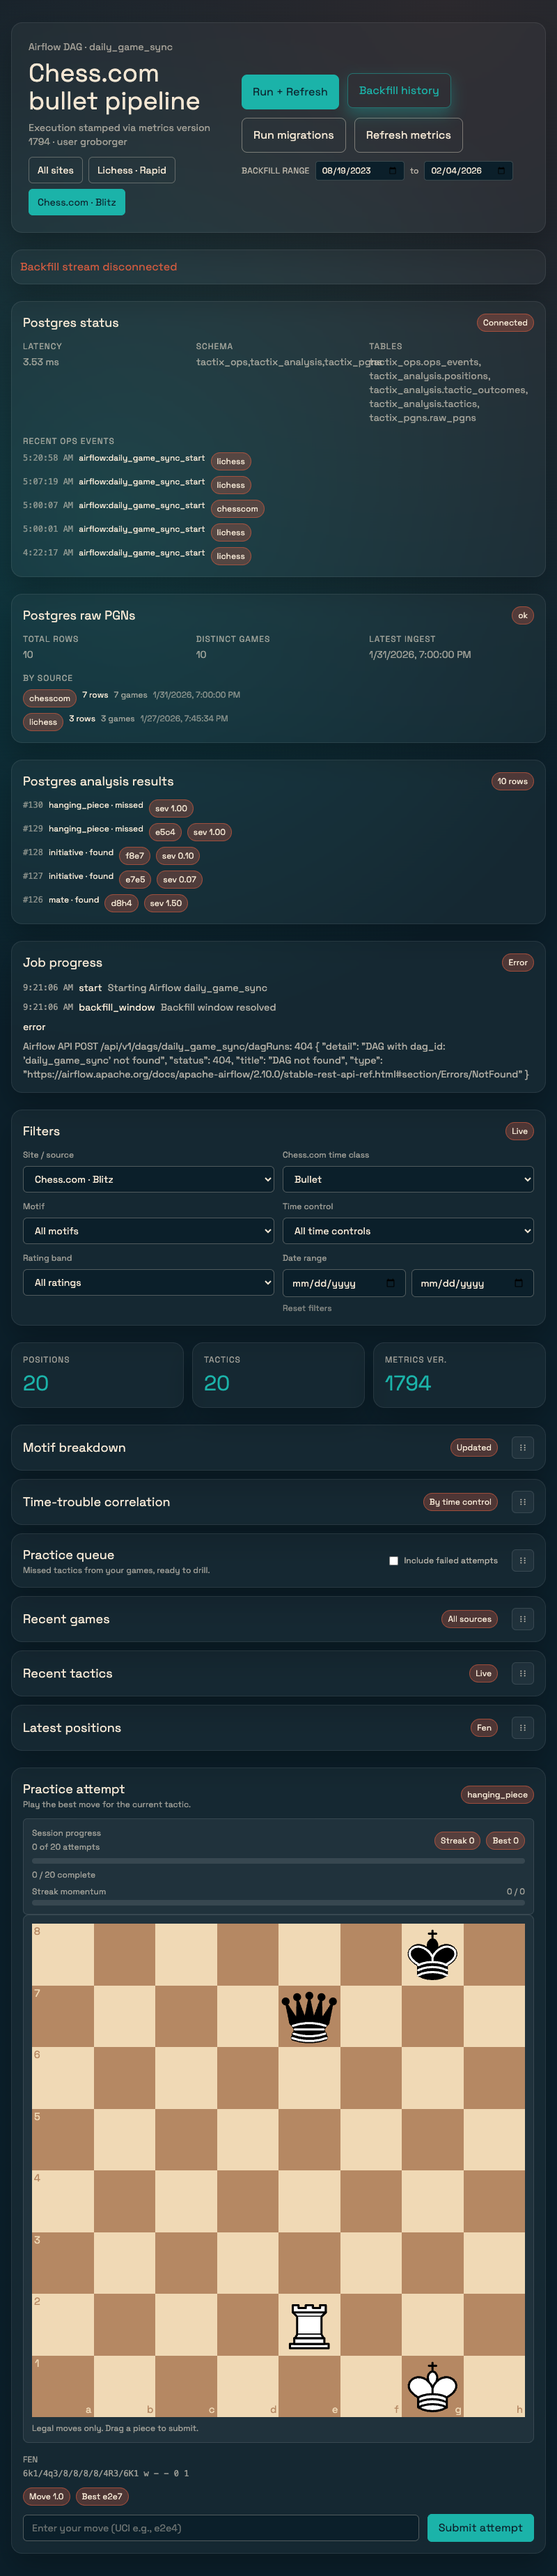
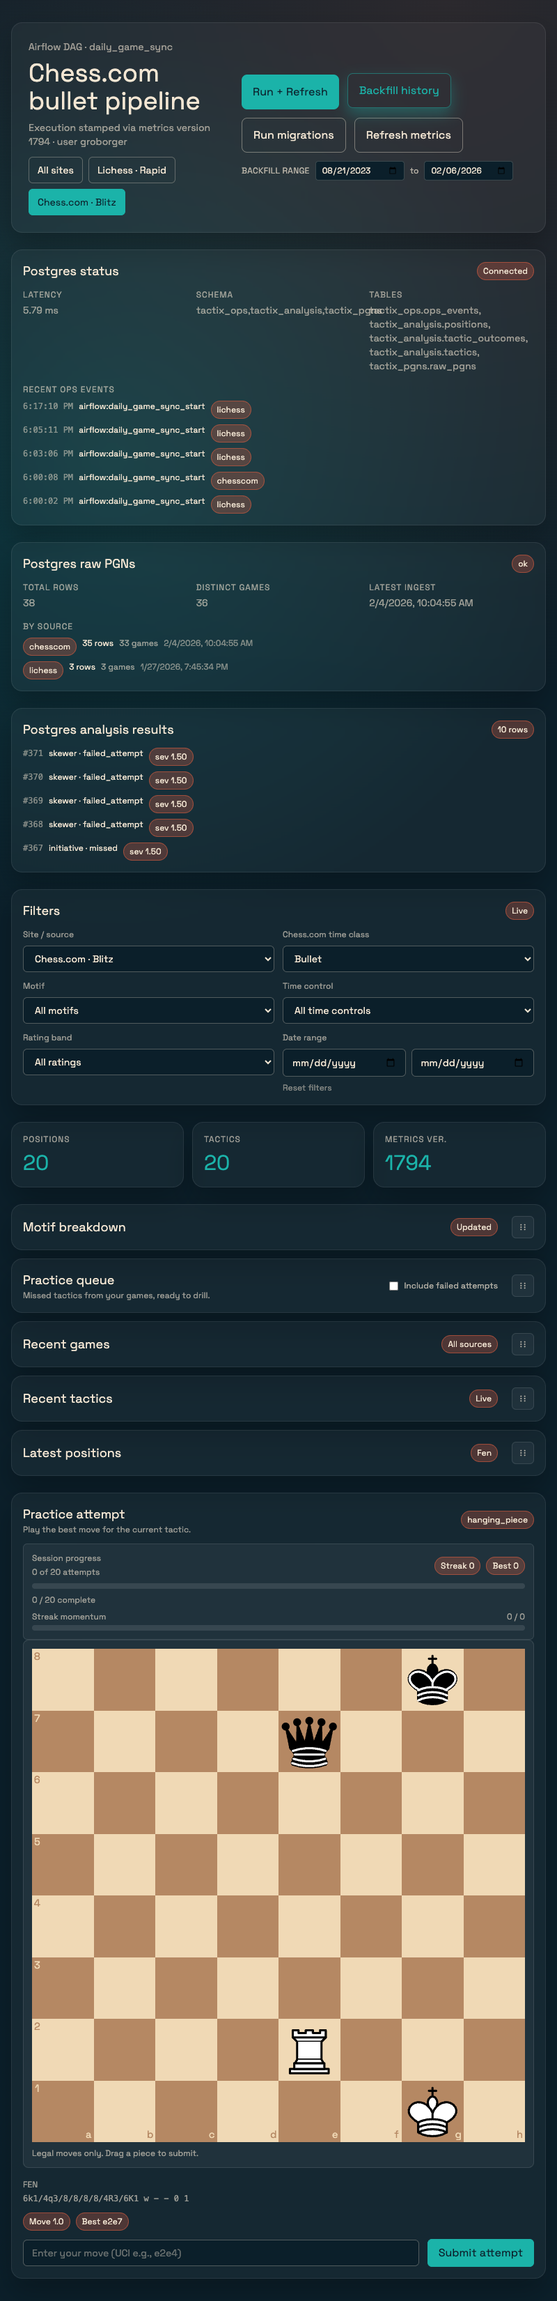
[dev]Fix fixture date filtering for mate motifs
- Defaulted date-only PGN timestamps to midday UTC to avoid timezone filtering

diff --git a/tests/test_api_chesscom_bullet_pipeline_regression.py b/tests/test_api_chesscom_bullet_pipeline_regression.py
@@ -1,0 +1,207 @@
+import importlib
+import os
+import shutil
+import tempfile
+from datetime import date
+from pathlib import Path
+
+import pytest
+from fastapi.testclient import TestClient
+
+from tactix.dashboard_query import DashboardQuery
+from tactix.db.dashboard_repository_provider import fetch_opportunity_motif_counts
+from tactix.db.duckdb_store import get_connection, init_schema
+
+
+def _ensure_stockfish_available() -> None:
+    if not shutil.which("stockfish"):
+        pytest.skip("Stockfish binary not on PATH")
+
+
+def _query_count(
+    conn,
+    sql: str,
+    params: tuple[object, ...],
+) -> int:
+    return int(conn.execute(sql, params).fetchone()[0])
+
+
+def test_api_pipeline_chesscom_bullet_fixture_regression() -> None:
+    _ensure_stockfish_available()
+
+    tmp_dir = Path(tempfile.mkdtemp())
+    db_name = "tactix_feature_001_chesscom_bullet_combined"
+
+    old_env = {
+        "TACTIX_API_TOKEN": os.environ.get("TACTIX_API_TOKEN"),
+        "TACTIX_DATA_DIR": os.environ.get("TACTIX_DATA_DIR"),
+        "TACTIX_SOURCE": os.environ.get("TACTIX_SOURCE"),
+    }
+
+    os.environ["TACTIX_API_TOKEN"] = "test-token"
+    os.environ["TACTIX_DATA_DIR"] = str(tmp_dir)
+    os.environ["TACTIX_SOURCE"] = "chesscom"
+
+    try:
+        import tactix.api as api_module
+        import tactix.config as config_module
+
+        importlib.reload(config_module)
+        importlib.reload(api_module)
+
+        client = TestClient(api_module.app)
+        response = client.post(
+            "/api/pipeline/run",
+            headers={"Authorization": "Bearer test-token"},
+            params={
+                "source": "chesscom",
+                "profile": "bullet",
+                "user_id": "groborger",
+                "start_date": "2026-02-01",
+                "end_date": "2026-02-01",
+                "use_fixture": "true",
+                "fixture_name": "chesscom_bullet_mate_hanging_2026_02_01.pgn",
+                "db_name": db_name,
+                "reset_db": "true",
+            },
+        )
+        assert response.status_code == 200
+
+        payload = response.json()
+        result = payload.get("result") or {}
+        counts = payload.get("counts") or {}
+
+        assert result.get("fetched_games", 0) > 0
+        assert counts.get("games", 0) > 0
+        assert counts.get("positions", 0) > 0
+        assert counts.get("user_moves", 0) > 0
+        assert counts.get("opportunities", 0) > 0
+        assert counts.get("conversions", 0) > 0
+        assert counts.get("practice_queue", 0) > 0
+        assert counts.get("positions") == counts.get("user_moves")
+
+
+        db_path = tmp_dir / f"{db_name}.duckdb"
+        conn = get_connection(db_path)
+        try:
+            init_schema(conn)
+            start_date = date(2026, 2, 1)
+            end_date = date(2026, 2, 1)
+
+            games_count = _query_count(
+                conn,
+                """
+                SELECT COUNT(*)
+                FROM games g
+                WHERE g.source = ?
+                AND CAST(g.played_at AS DATE) BETWEEN ? AND ?
+                """,
+                ("chesscom", start_date, end_date),
+            )
+            assert games_count > 0
+
+            positions_count = _query_count(
+                conn,
+                """
+                SELECT COUNT(*)
+                FROM positions p
+                JOIN games g ON g.game_id = p.game_id AND g.source = p.source
+                WHERE p.user_to_move IS TRUE
+                AND g.source = ?
+                AND CAST(g.played_at AS DATE) BETWEEN ? AND ?
+                """,
+                ("chesscom", start_date, end_date),
+            )
+            assert positions_count > 0
+
+            moves_count = _query_count(
+                conn,
+                """
+                SELECT COUNT(*)
+                FROM user_moves u
+                JOIN games g ON g.game_id = u.game_id AND g.source = u.source
+                WHERE g.source = ?
+                AND CAST(g.played_at AS DATE) BETWEEN ? AND ?
+                """,
+                ("chesscom", start_date, end_date),
+            )
+            assert moves_count == positions_count
+
+            opportunities_count = _query_count(
+                conn,
+                """
+                SELECT COUNT(*)
+                FROM opportunities o
+                JOIN games g ON g.game_id = o.game_id AND g.source = o.source
+                WHERE g.source = ?
+                AND CAST(g.played_at AS DATE) BETWEEN ? AND ?
+                """,
+                ("chesscom", start_date, end_date),
+            )
+            assert opportunities_count > 0
+
+            conversions_count = _query_count(
+                conn,
+                """
+                SELECT COUNT(*)
+                FROM conversions c
+                JOIN games g ON g.game_id = c.game_id AND g.source = c.source
+                WHERE g.source = ?
+                AND CAST(g.played_at AS DATE) BETWEEN ? AND ?
+                """,
+                ("chesscom", start_date, end_date),
+            )
+            assert conversions_count > 0
+            assert conversions_count == opportunities_count
+
+            practice_queue_count = _query_count(
+                conn,
+                """
+                SELECT COUNT(*)
+                FROM practice_queue q
+                JOIN games g ON g.game_id = q.game_id AND g.source = q.source
+                WHERE g.source = ?
+                AND CAST(g.played_at AS DATE) BETWEEN ? AND ?
+                """,
+                ("chesscom", start_date, end_date),
+            )
+            assert practice_queue_count > 0
+
+            motif_totals = fetch_opportunity_motif_counts(
+                conn,
+                DashboardQuery(
+                    source="chesscom",
+                    start_date=start_date,
+                    end_date=end_date,
+                ),
+            )
+            assert motif_totals.get("hanging_piece", 0) > 0
+            assert motif_totals.get("mate", 0) > 0
+        finally:
+            conn.close()
+
+        summary_response = client.get(
+            "/api/dashboard/summary",
+            headers={"Authorization": "Bearer test-token"},
+            params={
+                "source": "chesscom",
+                "start_date": "2026-02-01",
+                "end_date": "2026-02-01",
+                "db_name": db_name,
+            },
+        )
+        assert summary_response.status_code == 200
+        summary = summary_response.json().get("summary") or {}
+
+        assert summary.get("games") == games_count
+        assert summary.get("positions") == positions_count
+        assert summary.get("user_moves") == moves_count
+        assert summary.get("opportunities") == opportunities_count
+        assert summary.get("conversions") == conversions_count
+        assert summary.get("practice_queue") == practice_queue_count
+    finally:
+        for key, value in old_env.items():
+            if value is None:
+                os.environ.pop(key, None)
+            else:
+                os.environ[key] = value

diff --git a/src/tactix/extract_last_timestamp_ms.py b/src/tactix/extract_last_timestamp_ms.py
@@ -50,4 +50,4 @@ def _parse_date_time_value(date_value: str, end_time: str | None) -> datetime:
             f"{date_value} {time_match.group(1)}",
             "%Y.%m.%d %H:%M:%S",
         ).replace(tzinfo=UTC)
-    return datetime.strptime(date_value, "%Y.%m.%d").replace(tzinfo=UTC)
+    return datetime.strptime(f"{date_value} 12:00:00", "%Y.%m.%d %H:%M:%S").replace(tzinfo=UTC)

diff --git a/src/tactix/extract_positions__pgn.py b/src/tactix/extract_positions__pgn.py
@@ -53,6 +53,8 @@ def _call_rust_extractor(
     rust_extractor,
     request: ExtractorRequest,
 ) -> list[dict[str, object]]:
+    if "[SetUp" in request.pgn:
+        return _extract_positions_fallback(request)
     try:
         result = rust_extractor(
             request.pgn,
